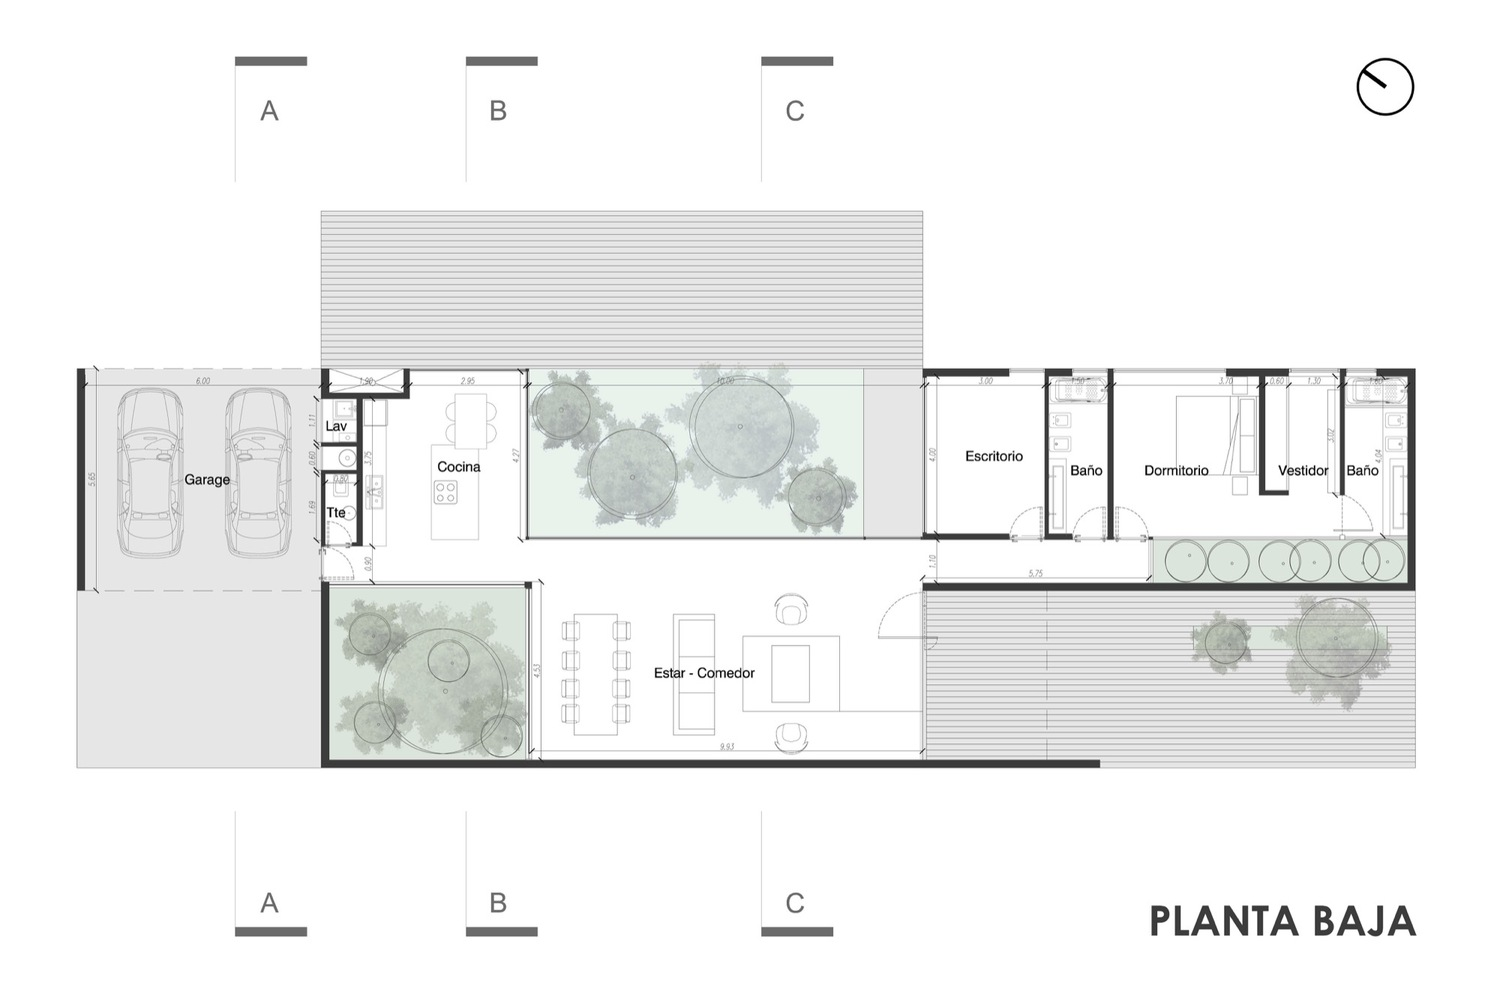
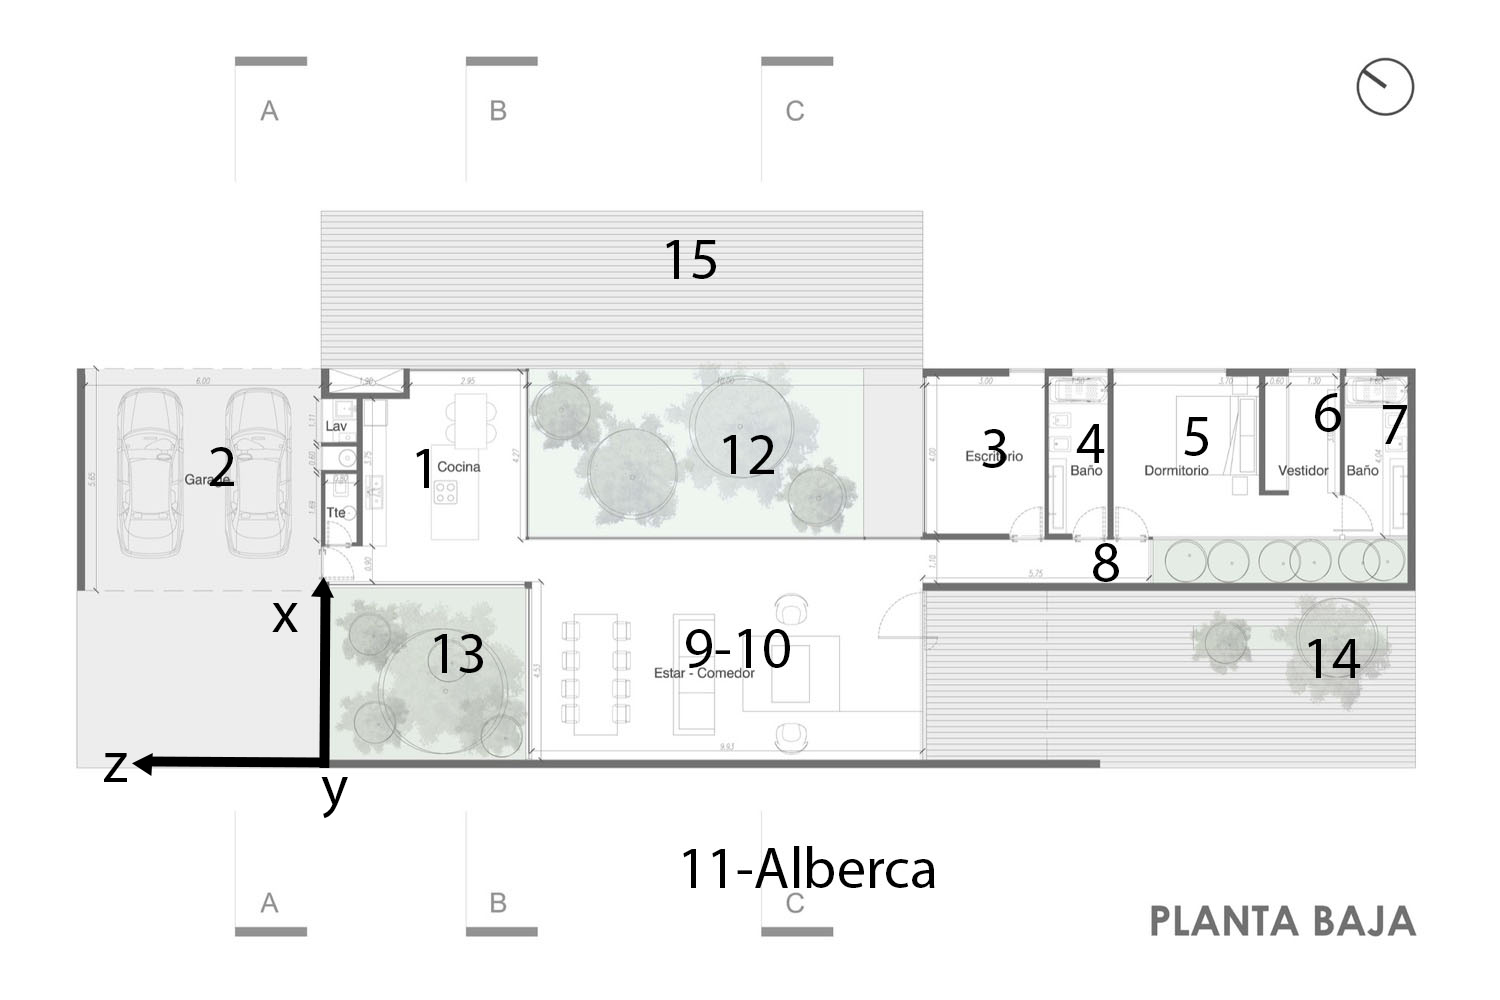
Dividir cuartos y agregar sistema de referencia

diff --git a/main.cpp b/main.cpp
@@ -12,7 +12,6 @@
 #include "texture.h"
 #include "figuras.h"
 #include "Camera.h"
-
 #include "cmodel/CModel.h"
 
 //Solo para Visual Studio 2015
@@ -36,7 +35,6 @@ GLfloat m_amb1[] = { 0.0, 0.0, 0.0, 1.0 };				// Ambiental Light Values
 GLfloat m_s1[] = {18};
 
 CTexture t_cielo;
-
 CFiguras mi;
 
 
@@ -66,7 +64,7 @@ void InitGL ( GLvoid )     // Inicializamos parametros
 	/* setup blending */
 	glEnable(GL_BLEND);			// Turn Blending On
     
-    t_cielo.LoadBMP("textures/sky.bmp");
+	t_cielo.LoadBMP("textures/sky.bmp");
 	t_cielo.BuildGLTexture();
 	t_cielo.ReleaseImage();
 
@@ -87,6 +85,34 @@ void pintaTexto(float x, float y, float z, void *font,char *string)
   }
 }
 
+void uno() {}
+void dos() {}
+void tres(){}
+void cuatro(){}
+void cinco(){}
+void seis(){}
+void siete(){}
+void ocho(){}
+void nuevediez(){}
+void once(){}
+void doce(){}
+void trece(){}
+void catorce(){}
+void quince(){}
+void uno_ventanas(){}
+void dos_ventanas(){}
+void tres_ventanas(){}
+void cuatro_ventanas(){}
+void cinco_ventanas(){}
+void seis_ventanas(){}
+void siete_ventanas(){}
+void ocho_ventanas(){}
+void nuevediez_ventanas(){}
+void once_ventanas(){}
+void doce_ventanas(){}
+void trece_ventanas(){}
+void catorce_ventanas(){}
+void quince_ventanas(){}
 
 
 void display ( void )   // Creamos la funcion donde se dibuja
@@ -112,6 +138,38 @@ void display ( void )   // Creamos la funcion donde se dibuja
 				glEnable(GL_LIGHTING);
 			glPopMatrix();
 		glPopMatrix();
+
+		glPushMatrix();
+			uno();
+			dos();
+			tres();
+			cuatro();
+			cinco();
+			seis();
+			siete();
+			ocho();
+			nuevediez();
+			once();
+			doce();
+			trece();
+			catorce();
+			quince();
+			uno_ventanas();
+			dos_ventanas();
+			tres_ventanas();
+			cuatro_ventanas();
+			cinco_ventanas();
+			seis_ventanas();
+			siete_ventanas();
+			ocho_ventanas();
+			nuevediez_ventanas();
+			once_ventanas();
+			doce_ventanas();
+			trece_ventanas();
+			catorce_ventanas();
+			quince_ventanas();
+		glPopMatrix();
+
 
 	glPopMatrix();
 

diff --git a/README.md b/README.md
@@ -1,2 +1,2 @@
-# compugra
-Proyecto 2017-1 de Valencia para Computación Grafica
+# Proyecto 2017-1 de Valencia para Computación Grafica
+[![CocoaPods](https://img.shields.io/cocoapods/l/AFNetworking.svg)]()
